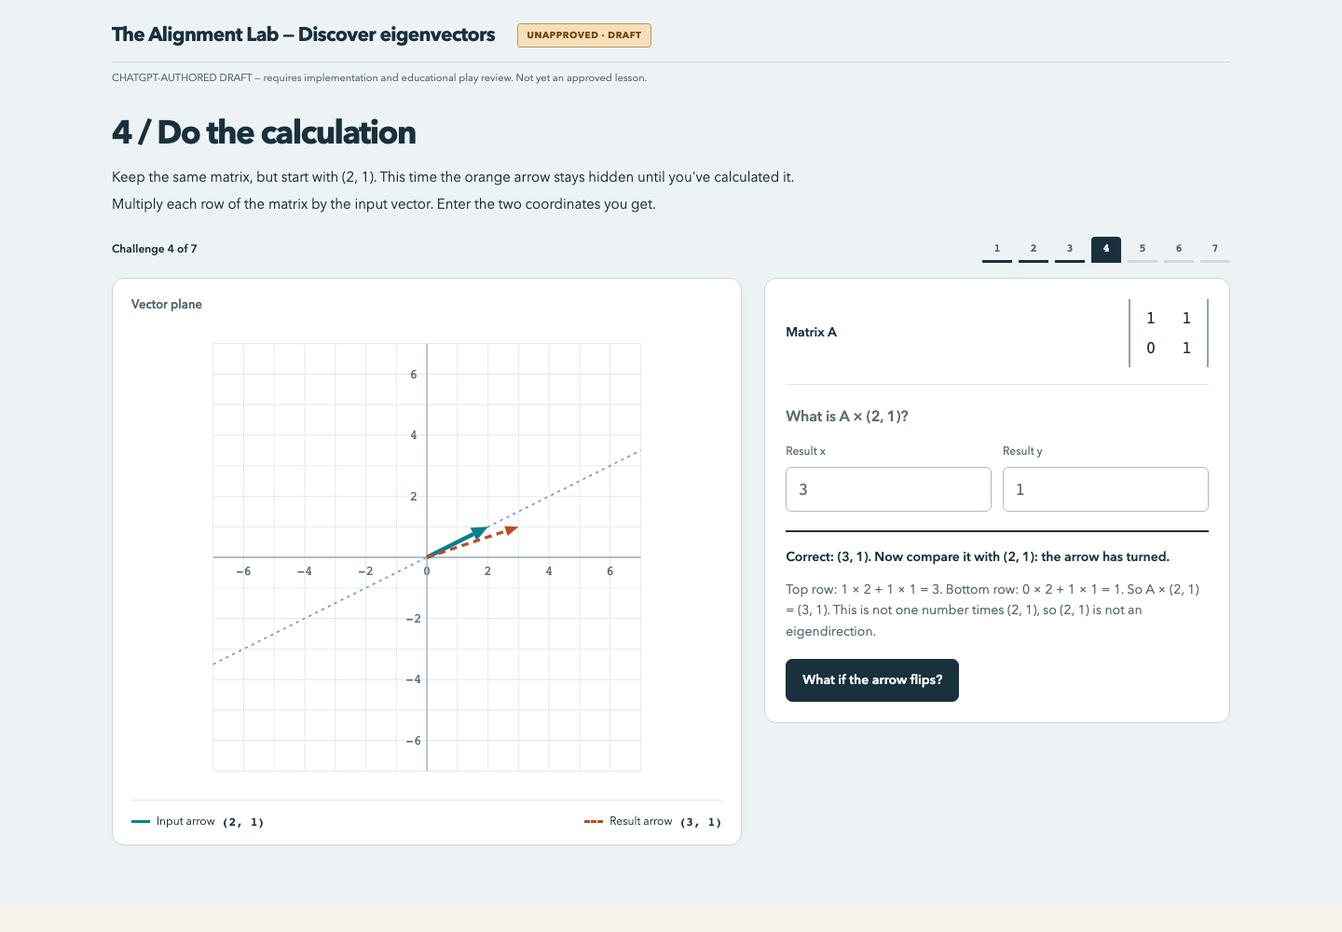
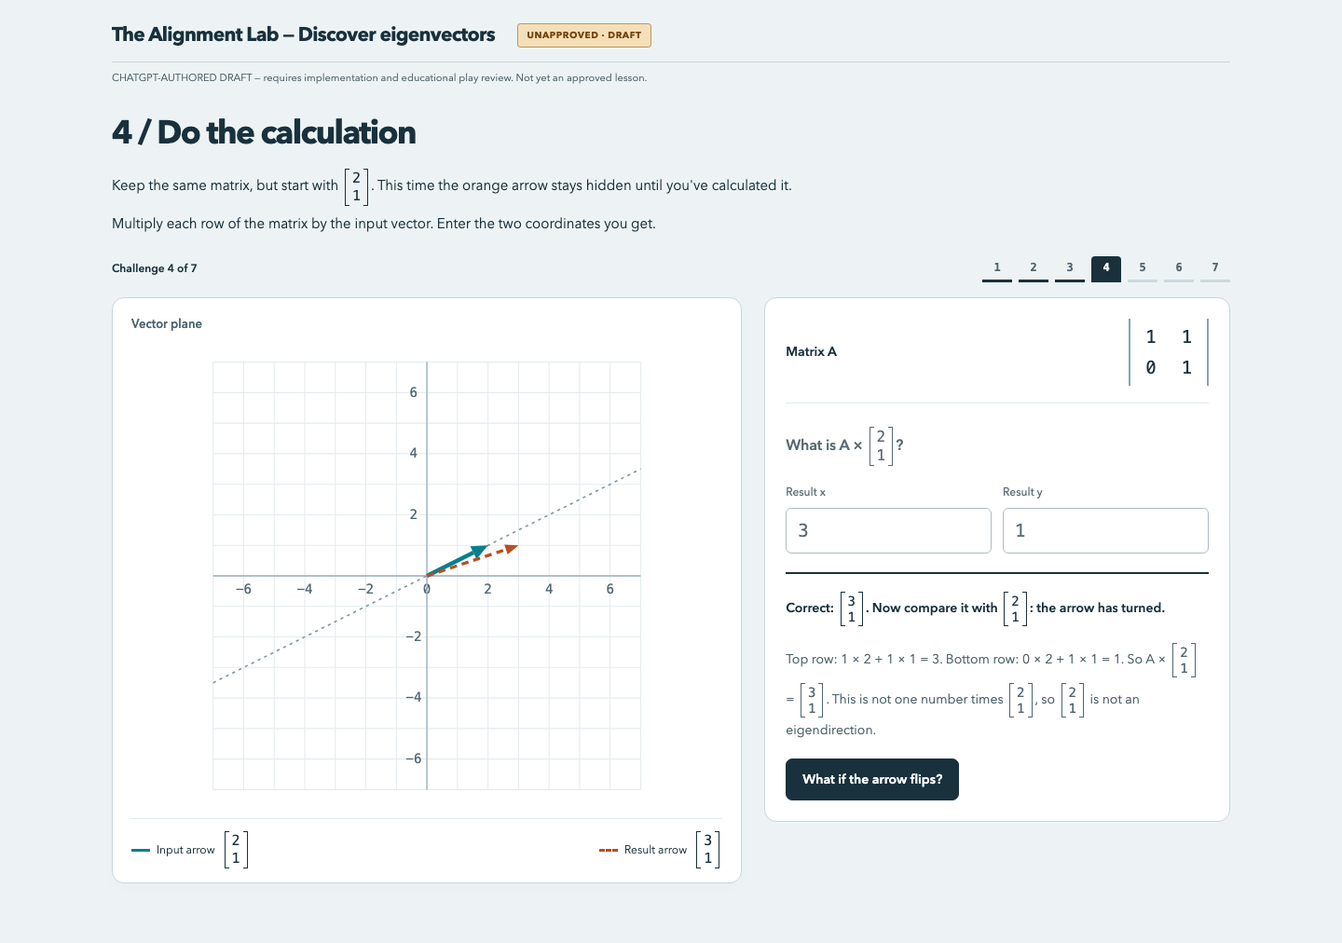
Typeset all lab vectors as columns per user review

diff --git a/src/components/EigenMission.tsx b/src/components/EigenMission.tsx
@@ -5,6 +5,7 @@ import { evaluateMission, initialAnswer, binaryAnswerValues, type MissionAnswer,
 import { transform } from '../engine/math';
 import type { Vector } from '../spec/schema';
 import { MissionPlane } from './MissionPlane';
+import { AuthoredText } from './AuthoredText';
 
 export function EigenMission({ step, navigate, recordAssessment }: {
   step: CustomStep; navigate: (target: string) => void; recordAssessment?: (assessment: MissionAssessment) => void;
@@ -24,14 +25,14 @@ export function EigenMission({ step, navigate, recordAssessment }: {
     setAnswer(previous => ({ ...previous, ...patch })); setOutcome(undefined);
   }
   function numberInput(index: number, label: string) {
-    return <label className="mission-number"><span>{label}</span><input type="text" inputMode="decimal" autoComplete="off" value={answer.numbers[index]} onChange={event => {
+    return <label className="mission-number"><span><AuthoredText text={label} /></span><input type="text" inputMode="decimal" autoComplete="off" value={answer.numbers[index]} onChange={event => {
       const numbers = [...answer.numbers]; numbers[index] = event.target.value; update({ numbers });
     }} /></label>;
   }
   function booleanChoices(yes: string, no: string) {
     return <div className="mission-choices">
       {binaryAnswerValues.map((value, i) => <label className="mission-choice" key={value} data-selected={answer.choice === value}>
-        <input type="radio" name={id} checked={answer.choice === value} onChange={() => update({ choice: value })} /><span>{i === 0 ? yes : no}</span>
+        <input type="radio" name={id} checked={answer.choice === value} onChange={() => update({ choice: value })} /><span><AuthoredText text={i === 0 ? yes : no} /></span>
       </label>)}
     </div>;
   }
@@ -47,61 +48,61 @@ export function EigenMission({ step, navigate, recordAssessment }: {
     : [{ id: step.id, source: config.mode === 'hunt-direction' ? answer.vector : config.vector, caption: undefined, visible: resultVisible }];
   return <section className="eigen-mission" data-mission={config.mode} data-attempt-count={attemptCount} data-hint-used={hintUsed} data-solved={solved}>
     <div className="mission-progress" role="progressbar" aria-label={copy.progressLabel} aria-valuenow={stage} aria-valuemin={1} aria-valuemax={7} aria-valuetext={copy.progressLabel}>
-      <span>{copy.progressLabel}</span><div aria-hidden="true">{missionModes.map((mode, i) => <i key={mode} data-current={i + 1 === stage} data-reached={i + 1 <= stage}>{i + 1}</i>)}</div>
+      <span><AuthoredText text={copy.progressLabel} /></span><div aria-hidden="true">{missionModes.map((mode, i) => <i key={mode} data-current={i + 1 === stage} data-reached={i + 1 <= stage}>{i + 1}</i>)}</div>
     </div>
     <div className="mission-workbench" data-multiple={planes.length > 1} data-diagram-free={planes.length === 0}>
       {planes.length > 0 && <div className="mission-plots">{planes.map(plane => <MissionPlane key={plane.id} source={plane.source} result={transform(config.matrix, plane.source)} visible={plane.visible} guide={guide} display={config.display} copy={copy} caption={plane.caption}
         drag={config.mode === 'hunt-direction' ? vector => update({ vector }) : undefined} locked={solved} revealOnMount={config.mode === 'exit-ticket'} />)}</div>}
       <div className="mission-console">
-        <div className="mission-matrix"><h3>{copy.matrixLabel}</h3><div className="matrix" role="group" aria-label={copy.matrixLabel}>{config.matrix.flat().map((n, i) => <span key={i}>{n}</span>)}</div></div>
+        <div className="mission-matrix"><h3><AuthoredText text={copy.matrixLabel} /></h3><div className="matrix" role="group" aria-label={copy.matrixLabel}>{config.matrix.flat().map((n, i) => <span key={i}>{n}</span>)}</div></div>
         <form onSubmit={submit} noValidate aria-describedby={`${id}-instructions`}>
-          <p id={`${id}-instructions`} className="sr-only">{copy.a11yChoices}</p>
+          <p id={`${id}-instructions`} className="sr-only"><AuthoredText text={copy.a11yChoices} /></p>
           <fieldset disabled={solved} className="mission-answer">
             {(config.mode === 'predict-output' || config.mode === 'classify-line') && <>
-              <legend>{copy.question}</legend><div className="mission-choices">
+              <legend><AuthoredText text={copy.question} /></legend><div className="mission-choices">
                 {(config.mode === 'predict-output' ? config.choices : config.options).map(option => <label className="mission-choice" key={option.id} data-selected={answer.choice === option.id}>
-                  <input type="radio" name={id} checked={answer.choice === option.id} onChange={() => update({ choice: option.id })} /><span>{copy['choice' + option.id.toUpperCase()]}</span>
+                  <input type="radio" name={id} checked={answer.choice === option.id} onChange={() => update({ choice: option.id })} /><span><AuthoredText text={copy['choice' + option.id.toUpperCase()]} /></span>
                 </label>)}
               </div>
             </>}
             {config.mode === 'hunt-direction' && <>
-              <legend>{copy.question}</legend><div className="mission-number-row">
+              <legend><AuthoredText text={copy.question} /></legend><div className="mission-number-row">
                 {([0, 1] as const).map(axis => <label className="mission-number" key={axis}><span>{axis === 0 ? copy.xCoordinateLabel : copy.yCoordinateLabel}</span><input type="number" min={-3} max={3} step={1} value={answer.vector[axis]} onChange={event => {
                   const n = Number(event.target.value); if (!event.target.value || !Number.isFinite(n)) return;
                   const vector: Vector = [...answer.vector]; vector[axis] = Math.max(-3, Math.min(3, Math.round(n))); update({ vector });
                 }} /></label>)}
               </div>
             </>}
-            {config.mode === 'calculate-output' && <><legend>{copy.question}</legend><div className="mission-number-row">{numberInput(0, copy.firstInputLabel)}{numberInput(1, copy.secondInputLabel)}</div></>}
+            {config.mode === 'calculate-output' && <><legend><AuthoredText text={copy.question} /></legend><div className="mission-number-row">{numberInput(0, copy.firstInputLabel)}{numberInput(1, copy.secondInputLabel)}</div></>}
             {config.mode === 'classify-and-scale' && <>
-              <legend>{copy.lineQuestion}</legend>{booleanChoices(copy.choiceYes, copy.choiceNo)}
-              <p className="mission-question">{copy.scaleQuestion}</p>{numberInput(0, copy.scaleInputLabel)}
+              <legend><AuthoredText text={copy.lineQuestion} /></legend>{booleanChoices(copy.choiceYes, copy.choiceNo)}
+              <p className="mission-question"><AuthoredText text={copy.scaleQuestion} /></p>{numberInput(0, copy.scaleInputLabel)}
             </>}
             {config.mode === 'two-directions' && <>
-              <legend>{copy.question}</legend><fieldset className="mission-candidates"><legend>{copy.selectLabel}</legend>
+              <legend><AuthoredText text={copy.question} /></legend><fieldset className="mission-candidates"><legend><AuthoredText text={copy.selectLabel} /></legend>
                 {config.candidates.map(candidate => <div className="mission-candidate" key={candidate.id}>
                   <label className="mission-choice" data-selected={answer.selected.includes(candidate.id)}>
-                    <input type="checkbox" checked={answer.selected.includes(candidate.id)} onChange={event => update({ selected: event.target.checked ? [...answer.selected, candidate.id] : answer.selected.filter(v => v !== candidate.id) })} /><span id={`${id}-${candidate.id}`}>{copy['candidate' + candidate.id.toUpperCase()]}</span>
+                    <input type="checkbox" checked={answer.selected.includes(candidate.id)} onChange={event => update({ selected: event.target.checked ? [...answer.selected, candidate.id] : answer.selected.filter(v => v !== candidate.id) })} /><span id={`${id}-${candidate.id}`}><AuthoredText text={copy['candidate' + candidate.id.toUpperCase()]} /></span>
                   </label>
-                  {answer.selected.includes(candidate.id) && <label className="mission-number"><span id={`${id}-${candidate.id}-scale`}>{copy.multiplierLabel}</span><input type="text" inputMode="decimal" autoComplete="off" aria-labelledby={`${id}-${candidate.id} ${id}-${candidate.id}-scale`} value={answer.scales[candidate.id] ?? ''} onChange={event => update({ scales: { ...answer.scales, [candidate.id]: event.target.value } })} /></label>}
+                  {answer.selected.includes(candidate.id) && <label className="mission-number"><span id={`${id}-${candidate.id}-scale`}><AuthoredText text={copy.multiplierLabel} /></span><input type="text" inputMode="decimal" autoComplete="off" aria-labelledby={`${id}-${candidate.id} ${id}-${candidate.id}-scale`} value={answer.scales[candidate.id] ?? ''} onChange={event => update({ scales: { ...answer.scales, [candidate.id]: event.target.value } })} /></label>}
                 </div>)}
               </fieldset>
             </>}
             {config.mode === 'exit-ticket' && <>
-              <legend>{copy.partAQuestion}</legend><div className="mission-number-row">{numberInput(0, copy.partAFirstInputLabel)}{numberInput(1, copy.partASecondInputLabel)}</div>
-              <p className="mission-question">{copy.partAScaleQuestion}</p>{numberInput(2, copy.partAScaleInputLabel)}
-              <fieldset className="mission-final-decision"><legend>{copy.partBQuestion}</legend>{booleanChoices(copy.partBYes, copy.partBNo)}</fieldset>
+              <legend><AuthoredText text={copy.partAQuestion} /></legend><div className="mission-number-row">{numberInput(0, copy.partAFirstInputLabel)}{numberInput(1, copy.partASecondInputLabel)}</div>
+              <p className="mission-question"><AuthoredText text={copy.partAScaleQuestion} /></p>{numberInput(2, copy.partAScaleInputLabel)}
+              <fieldset className="mission-final-decision"><legend><AuthoredText text={copy.partBQuestion} /></legend>{booleanChoices(copy.partBYes, copy.partBNo)}</fieldset>
             </>}
           </fieldset>
-          {!solved && <div className="mission-actions"><button type="submit" disabled={(config.mode === 'predict-output' || config.mode === 'classify-line') && !answer.choice}>{copy.submitLabel}</button>
-            {!hintUsed && attemptCount >= ('offerHintAfterAttempts' in config ? config.offerHintAfterAttempts : 0) && <button type="button" className="mission-hint-button" onClick={() => setHintUsed(true)}>{copy.hintLabel}</button>}
+          {!solved && <div className="mission-actions"><button type="submit" disabled={(config.mode === 'predict-output' || config.mode === 'classify-line') && !answer.choice}><AuthoredText text={copy.submitLabel} /></button>
+            {!hintUsed && attemptCount >= ('offerHintAfterAttempts' in config ? config.offerHintAfterAttempts : 0) && <button type="button" className="mission-hint-button" onClick={() => setHintUsed(true)}><AuthoredText text={copy.hintLabel} /></button>}
           </div>}
         </form>
-        {hintUsed && <aside className="mission-hint">{copy.hintText}</aside>}
+        {hintUsed && <aside className="mission-hint"><AuthoredText text={copy.hintText} /></aside>}
         <div className="mission-feedback" data-correct={solved} data-visible={Boolean(outcome)}>
-          <p role="status" data-testid="mission-feedback">{outcome && copy[outcome.key]}</p>
-          {outcome && !solved && <button type="button" className="mission-retry" onClick={() => setOutcome(undefined)}>{copy.retryLabel}</button>}
-          {solved && <><p className="mission-explanation">{copy.revealExplanation}</p><p className="sr-only">{copy.a11yReveal}</p><button type="button" onClick={() => navigate(step.actions[0].target)}>{step.actions[0].label}</button></>}
+          <p role="status" data-testid="mission-feedback">{outcome && <AuthoredText text={copy[outcome.key]} />}</p>
+          {outcome && !solved && <button type="button" className="mission-retry" onClick={() => setOutcome(undefined)}><AuthoredText text={copy.retryLabel} /></button>}
+          {solved && <><p className="mission-explanation"><AuthoredText text={copy.revealExplanation} /></p><p className="sr-only"><AuthoredText text={copy.a11yReveal} /></p><button type="button" onClick={() => navigate(step.actions[0].target)}>{step.actions[0].label}</button></>}
         </div>
       </div>
     </div>

diff --git a/src/components/MissionPlane.tsx b/src/components/MissionPlane.tsx
@@ -1,6 +1,7 @@
 import { useEffect, useId, useRef, useState, type PointerEvent } from 'react';
 import type { Vector } from '../spec/schema';
 import type { MissionConfig } from '../spec/eigenMission';
+import { AuthoredText } from './AuthoredText';
 
 function useResult(target: Vector, source: Vector, visible: boolean, duration: number, revealOnMount: boolean) {
   const [value, setValue] = useState(visible && !revealOnMount ? target : source);
@@ -60,7 +61,7 @@ export function MissionPlane({ source, result, visible, guide, display, copy, dr
     drag([snap((local.x - 238) / 30), snap((238 - local.y) / 30)]);
   }
   return <figure className="mission-plane">
-    <figcaption>{caption ?? copy.graphLabel}</figcaption>
+    <figcaption><AuthoredText text={caption ?? copy.graphLabel} /></figcaption>
     <svg viewBox="0 0 476 476" role={drag ? 'group' : 'img'} aria-labelledby={`${id}-title`} aria-describedby={`${id}-desc`}>
       <title id={`${id}-title`}>{copy.graphLabel}</title><desc id={`${id}-desc`}>{description}</desc>
       <g className="mission-grid" aria-hidden="true">
@@ -92,8 +93,8 @@ export function MissionPlane({ source, result, visible, guide, display, copy, dr
       </g>}
     </svg>
     <div className="mission-readouts">
-      <div><i className="mission-source-swatch" style={{ borderColor: display.sourceColor }} /><span>{copy.inputLabel}</span><output>{`(${source.join(', ')})`}</output></div>
-      {visible && <div data-testid="mission-result"><i className="mission-result-swatch" style={{ borderColor: display.outputColor }} /><span>{copy.outputLabel}</span><output>{`(${result.join(', ')})`}</output></div>}
+      <div><i className="mission-source-swatch" style={{ borderColor: display.sourceColor }} /><span>{copy.inputLabel}</span><output><AuthoredText text={`(${source.join(', ')})`} /></output></div>
+      {visible && <div data-testid="mission-result"><i className="mission-result-swatch" style={{ borderColor: display.outputColor }} /><span>{copy.outputLabel}</span><output><AuthoredText text={`(${result.join(', ')})`} /></output></div>}
     </div>
   </figure>;
 }

diff --git a/src/mission.css b/src/mission.css
@@ -71,6 +71,12 @@ body:has([data-experience='eigenvector-alignment-lab']) { background: #edf3f5; }
 .mission-candidate .mission-number { padding: 8px 12px 12px; border: 1px solid #c8d6dc; border-top: 0; border-radius: 0 0 7px 7px; }
 .mission-final-decision { margin: 22px 0 0; }
 .sr-only { position: absolute; width: 1px; height: 1px; padding: 0; margin: -1px; overflow: hidden; clip-path: inset(50%); white-space: nowrap; border: 0; }
+.column-vector { display: inline-grid; grid-template-columns: max-content; grid-template-rows: auto auto; vertical-align: middle; text-align: center; gap: 1px; padding: 2px 8px; margin: 3px 3px; font-family: monospace; font-variant-numeric: tabular-nums; font-weight: 500; line-height: 1.15; white-space: nowrap; position: relative; }
+.column-vector::before, .column-vector::after { content: ''; position: absolute; top: 0; bottom: 0; width: 4px; border-block: 1.5px solid currentColor; }
+.column-vector::before { left: 0; border-left: 1.5px solid currentColor; }
+.column-vector::after { right: 0; border-right: 1.5px solid currentColor; }
+.vector-component { display: block; }
+.mission-readouts .column-vector { font-size: 15px; margin-block: 0; }
 @media (max-width: 800px) {
   .shell[data-experience='eigenvector-alignment-lab'] { padding: 20px 18px 40px; }
   .mission-workbench { grid-template-columns: 1fr; gap: 15px; }

diff --git a/src/App.tsx b/src/App.tsx
@@ -4,6 +4,7 @@ import { extensions } from './spec/extensions';
 import { StatusBanner } from './diagnostics';
 import { VectorActivity } from './components/VectorActivity';
 import type { MissionAssessment } from './engine/eigen';
+import { AuthoredText } from './components/AuthoredText';
 
 export function App({ spec }: { spec: Experience }) {
   const [current, setCurrent] = useState(spec.start);
@@ -27,7 +28,7 @@ export function App({ spec }: { spec: Experience }) {
     <main>
       <section className="step-heading">
         <h2 ref={heading} tabIndex={-1} data-copy={`steps.${step.id}.title`}>{step.title}</h2>
-        {step.body.map((paragraph, i) => <p key={i} data-copy={`steps.${step.id}.body.${i}`}>{paragraph}</p>)}
+        {step.body.map((paragraph, i) => <p key={i} data-copy={`steps.${step.id}.body.${i}`}>{spec.id === 'eigenvector-alignment-lab' ? <AuthoredText text={paragraph} /> : paragraph}</p>)}
       </section>
       {step.kind === 'vector-transform' && <VectorActivity key={`${step.id}-${visit}`} step={step} navigate={navigate} />}
       {step.kind === 'message' && <button onClick={() => navigate(step.action.target)}>{step.action.label}</button>}

diff --git a/src/components/AuthoredText.tsx b/src/components/AuthoredText.tsx
@@ -1,0 +1,20 @@
+import type { ReactNode } from 'react';
+
+// Chris requested column notation on 2026-10-08. Preserve every original text
+// character and accessible label; change only the visual arrangement of pairs.
+// Matrix row arrays and arithmetic prose are deliberately not reinterpreted.
+export function AuthoredText({ text }: { text: string }) {
+  const parts: ReactNode[] = [];
+  const pattern = /(\(\s*)([+−-]?\d+(?:\.\d+)?)(,\s*)([+−-]?\d+(?:\.\d+)?)(\s*\))/g;
+  let cursor = 0;
+  for (const match of text.matchAll(pattern)) {
+    parts.push(text.slice(cursor, match.index));
+    parts.push(<span className="column-vector" key={match.index} role="math" aria-label={match[0]}>
+      <span className="sr-only" aria-hidden="true">{match[1]}</span><span className="vector-component" aria-hidden="true">{match[2]}</span>
+      <span className="sr-only" aria-hidden="true">{match[3]}</span><span className="vector-component" aria-hidden="true">{match[4]}</span><span className="sr-only" aria-hidden="true">{match[5]}</span>
+    </span>);
+    cursor = match.index + match[0].length;
+  }
+  parts.push(text.slice(cursor));
+  return <>{parts}</>;
+}

diff --git a/tests/eigen.spec.ts b/tests/eigen.spec.ts
@@ -4,6 +4,12 @@ import { authored, missions, enter, start, fill, check, solve, hiddenResult } fr
 
 test('prediction and classification show each exact feedback branch, and gate hints/reveals/continuation', async ({ page }) => {
   await start(page); const s = missions[0];
+  const vector = page.locator('.mission-plane output .column-vector');
+  await expect(vector).toHaveAccessibleName('(2, 1)');
+  await expect(vector.locator('.vector-component')).toHaveText(['2', '1']);
+  const positions = await vector.locator('.vector-component').evaluateAll(nodes => nodes.map(node => { const r = node.getBoundingClientRect(); return { x: r.x + r.width / 2, y: r.y, bottom: r.bottom }; }));
+  expect(positions[1].y).toBeGreaterThanOrEqual(positions[0].bottom);
+  expect(positions[1].x).toBeCloseTo(positions[0].x);
   await hiddenResult(page, s);
   await expect(page.getByRole('button', { name: s.copy.submitLabel })).toBeDisabled();
   await expect(page.getByRole('button', { name: s.copy.hintLabel })).toHaveCount(0);

diff --git a/docs/evidence/eigenvector-alignment-lab/README.md b/docs/evidence/eigenvector-alignment-lab/README.md
@@ -2,6 +2,8 @@
 
 Implements the seven challenges authored in PR #2. This is a review build, not an educational approval. The implementation PR targets `authoring/eigenvector-alignment-lab`; it must not merge directly to `main`.
 
+**Latest user feedback, 2026-10-08:** Chris requires vectors stacked vertically everywhere, explicitly including authored sentences and choices. The revised screenshots and renderer use column vectors with square brackets. This overrides the original plain-text presentation constraint for vector notation only; all source content bytes, words, component values and accessible expression labels are preserved. Earlier tuple-format screenshots are superseded.
+
 ## Frozen content
 
 - Authoring commit: `0beb0d8c7c1ecc4036b6300a029a12db08d1346b`.
@@ -68,6 +70,7 @@ The review checked the actual seven before/after pairs on both screen sizes agai
 4. Coincident source/result arrows could conceal one encoding at eigenvalue 1. A wider solid source and smaller dashed result/arrowhead preserve both, with separate exact readouts. Arrowhead tips end at the mathematical endpoint rather than beyond it.
 5. Candidate checkboxes and scalar fields have distinct accessible roles, with scalar names including the candidate and multiplier label. Tests initially used ambiguous label selectors; role-specific selectors now verify the real controls. No learner copy was changed to accommodate tests.
 6. The original framework only accepted kebab-case copy keys. It now accepts authored camelCase keys, while strict per-mode schemas reject missing/unknown copy and config keys. Cross-validation rejects mismatched copy modes and independently checks supplied mathematical answers.
+7. Chris's notation correction applies to all vector expressions, not only readouts. The renderer splits existing pairs into stacked components while preserving the original text exactly. Square brackets replace initially ambiguous vertical bars visually. Each vector's accessible math name remains its exact original expression; this avoids inserting layout-induced spaces into checkbox and scalar-field names. Mobile and desktop screenshots were recaptured after this correction.
 
 The copy guard change permits conditional values in existing technical attributes (such as SVG `role`). It does not exempt `aria-label`, explanations or generated sentences; regression tests confirm these remain rejected. Separate generated extension schemas and a semantic validation hook are explicit authoring-contract changes, documented in `docs/INTERACTIONS.md`.
 

diff --git a/docs/INTERACTIONS.md b/docs/INTERACTIONS.md
@@ -35,6 +35,8 @@ Implements the seven-mode contract in `authoring/briefs/eigenvector-alignment-la
 
 All modes use strict mode-specific config and copy schemas plus cross-validation between the selected mode, copy keys and sole continuation. Supplied answers are independently verified against matrix computation; contradictory configurations fail visibly. Schemas are exported in `schema/eigen-mission.config.schema.json` and `schema/eigen-mission.copy.schema.json`. JSON Schema alone cannot perform the matrix checks; `npm run validate` is authoritative.
 
+User-directed presentation update, 2026-10-08: vector pairs render as two-row columns with square brackets throughout this lab, including sentences, choices and readouts. `AuthoredText` retains every original text character and supplies each vector's original expression as its accessible math label; CSS hides the tuple punctuation visually. This is an explicit user override of plain-text typesetting only. It does not change the JSON/brief, words, values, feedback or decisions. Matrix row arrays are not parsed as vector pairs.
+
 Results use 650 ms interpolation with immediate reduced-motion fallback. Source/result have solid/dashed encodings and exact coordinate readouts. The fixed [-7,7] square domain has unit grid spacing; numeric tick labels appear every two units. Before reveal, answer-bearing `graphDescription` is replaced with the exact authored `a11yChoices`; `a11yReveal` is mounted only on success. Explicitly authored choice and error-feedback text is retained even where it contains coordinates. See the evidence report for the author-review question this raises.
 
 Numeric answers accept finite signed decimals, including `.5` and `-2.0`, but not exponents or expressions. This is the Alignment Lab contract, distinct from the original vector-transform parser. Correct submissions lock controls; unsolved edits clear feedback. Hints follow the authored attempt threshold. No automatic advancement, scoring, external analytics or invented assessment messages.

diff --git a/AGENTS.md b/AGENTS.md
@@ -41,3 +41,12 @@ Do not edit approved content to make the implementation pass. Do not mark implem
 Review the complete output against the requested outcome before handoff and record concrete findings and repairs in the implementation evidence. For publication, verify the deployed HTTPS page and its exact specification hash, not only a successful build or uploaded artifact. Confirm live repository settings before claiming branch protection is active. A connected GitHub account does not by itself establish that the author's session has file-writing tools; use the access prerequisite in `AUTHORING.md`.
 
 For hidden-result activities, inspect DOM and accessible descriptions as well as visible arrows: an authored graph description may contain the answer and must be gated with the reveal. Preserve explicitly triggered authored feedback verbatim, and report any tension between that feedback and the hidden-answer contract to ChatGPT. Capture every mode before and after success at desktop and mobile widths. Check reveals that mount new diagrams as well as reveals inside existing diagrams; both must honor the authored animation and reduced-motion behavior.
+
+## Current user-directed presentation rule (2026-10-08)
+
+Chris requires every vector expression in the Alignment Lab to appear as a vertical column, including authored sentences, choices and diagram readouts. This explicitly overrides the plain-text presentation constraint for vector notation only. Preserve the authored file bytes, words, component values and accessible names; typeset the existing expressions without paraphrasing or adding education.
+
+## Show game review evidence as work progresses
+
+Send me screenshots of the game for the bits you have played / signing off on and describe exactly what you see and what you are assessing - i need to understand what you are looking for and identify if there is anything we are seeing differently.
+Paste in the conversation here as you go with commentary as per above.
